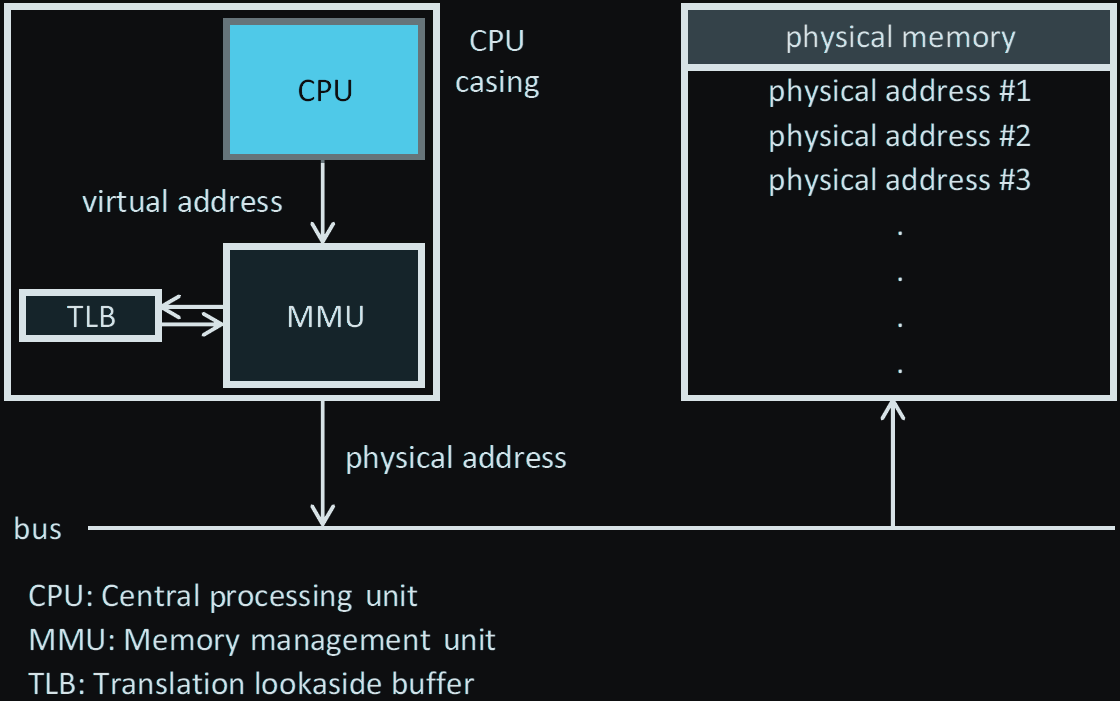
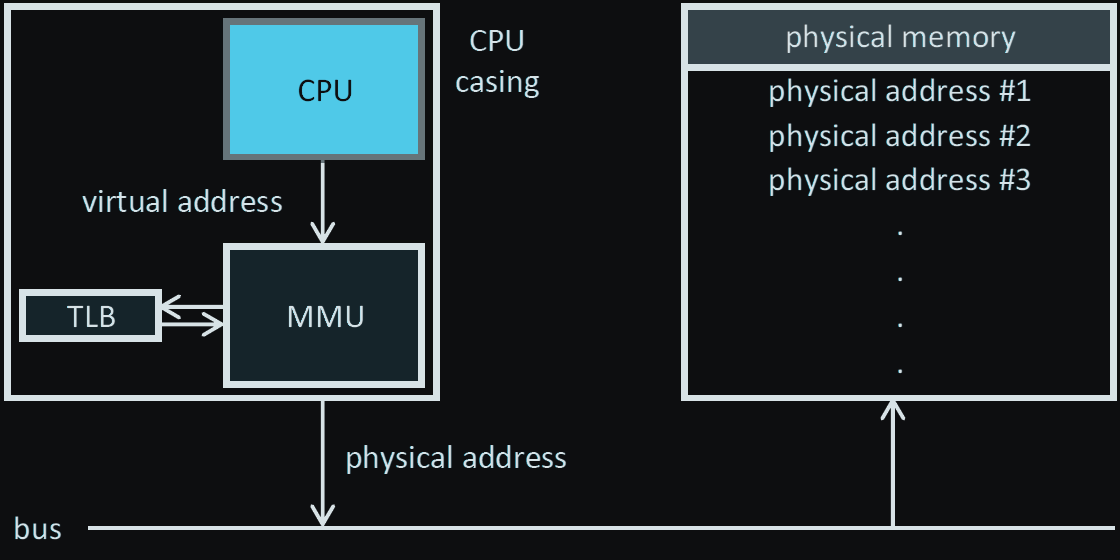
Remove diagram acronym footer

diff --git a/content/posts/cuda-4-unified-memory/index.md b/content/posts/cuda-4-unified-memory/index.md
@@ -34,7 +34,7 @@ CPU나 GPU가 pointer를 읽거나 쓸 때 각 processor의 주소 변환 장치
 
 MMU는 먼저 **TLB**(Translation Lookaside Buffer)에서 최근의 virtual-page-to-physical-frame 변환 결과를 찾는다. TLB는 data가 아니라 주소 변환 결과를 보관하는 cache다. TLB에 결과가 없으면 page table을 조회한다. 따라서 **TLB miss는 page fault가 아니다**. Page table에도 유효한 mapping이 없거나 접근 권한이 맞지 않을 때 fault가 발생할 수 있다.
 
-![CPU의 virtual address가 MMU와 TLB를 거쳐 physical address로 변환되는 구조](images/address-translation.png?v=3#medium)
+![CPU의 virtual address가 MMU와 TLB를 거쳐 physical address로 변환되는 구조](images/address-translation.png?v=4#medium)
 
 변환된 physical address는 cache와 physical memory로 이어지는 memory hierarchy에서 사용된다. Physical frame의 위치는 hardware topology에 따라 달라진다. Discrete system에서는 CPU가 연결된 system DRAM 또는 GPU의 VRAM에 놓일 수 있다. Integrated system에서는 CPU와 GPU가 공유하는 system DRAM에 놓일 수 있다. 이 글에서 측정한 Jetson AGX Orin은 integrated system에 해당한다. 특정 page가 현재 어느 memory에 놓여 있는지를 **placement** 또는 **residency**라고 한다.
 
